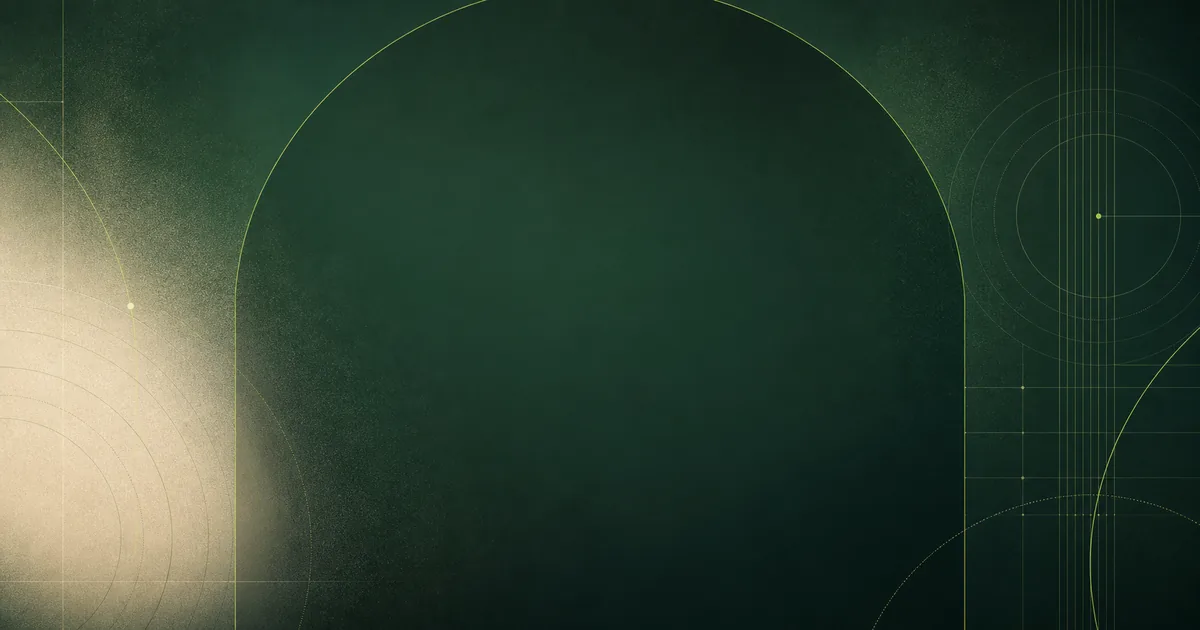
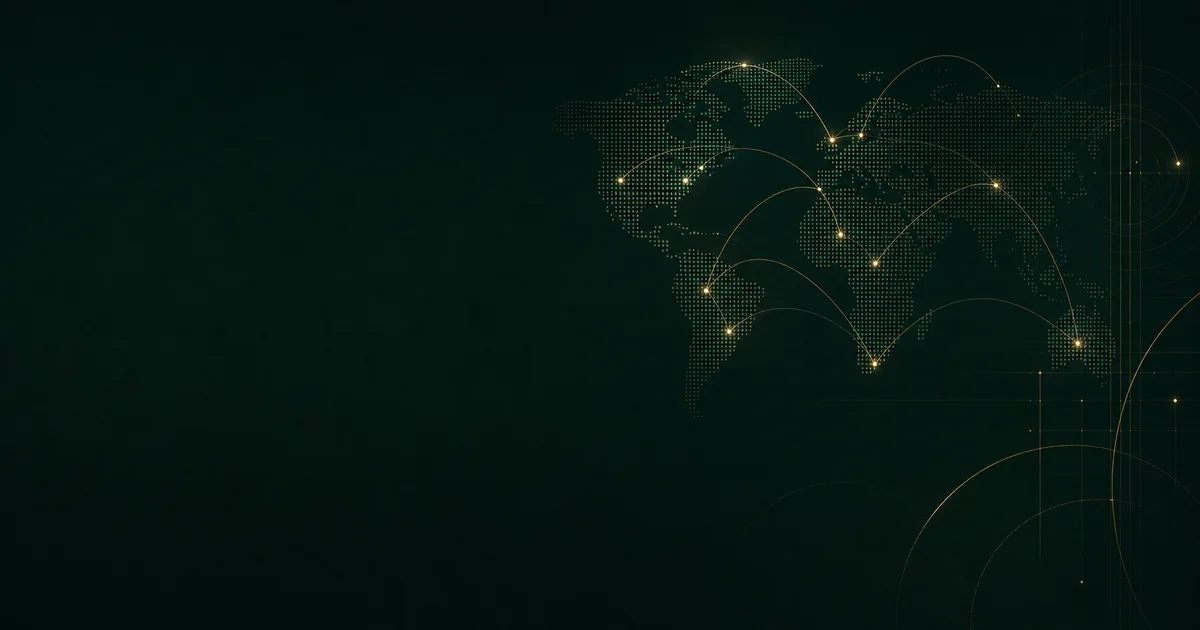
feat: adopt global network OG template

diff --git a/frontend/app/api/og/route.tsx b/frontend/app/api/og/route.tsx
@@ -78,7 +78,12 @@ function dataUrl(bytes: Uint8Array, type: string): string {
 
 async function loadImage(
   url: URL | undefined,
-  dimensions?: { width: number; height: number },
+  options?: {
+    width: number;
+    height: number;
+    fit?: "cover" | "contain";
+    format?: "jpeg" | "png";
+  },
 ): Promise<string | undefined> {
   if (!url) return undefined;
   const controller = new AbortController();
@@ -95,21 +100,27 @@ async function loadImage(
     // abort the entire request on a malformed or incompatible remote image.
     // Re-encoding gives it one known-safe format and also downsizes portraits.
     let pipeline = sharp(bytes).rotate();
-    if (dimensions) {
-      pipeline = pipeline.resize(dimensions.width, dimensions.height, {
-        fit: "cover",
+    if (options) {
+      pipeline = pipeline.resize(options.width, options.height, {
+        fit: options.fit ?? "cover",
         position: "attention",
       });
     }
-    const safeBytes = new Uint8Array(await pipeline.jpeg({ quality: 86, mozjpeg: true }).toBuffer());
+    const outputType = options?.format === "png" ? "image/png" : "image/jpeg";
+    const safeBytes = new Uint8Array(
+      await (options?.format === "png"
+        ? pipeline.png({ compressionLevel: 9 }).toBuffer()
+        : pipeline.jpeg({ quality: 86, mozjpeg: true }).toBuffer()),
+    );
     return safeBytes.byteLength <= MAX_IMAGE_BYTES
-      ? dataUrl(safeBytes, "image/jpeg")
+      ? dataUrl(safeBytes, outputType)
       : undefined;
   } catch { return undefined; } finally { clearTimeout(timeout); }
 }
 
-function Card({ kind, title, subtitle, locale, background, source }: {
-  kind: OgImageKind; title: string; subtitle?: string; locale?: string; background?: string; source?: string;
+function Card({ kind, title, subtitle, locale, background, source, logo }: {
+  kind: OgImageKind; title: string; subtitle?: string; locale?: string;
+  background?: string; source?: string; logo?: string;
 }) {
   const titleSize = title.length > 105 ? 48 : title.length > 70 ? 55 : 64;
   return (
@@ -143,14 +154,21 @@ function Card({ kind, title, subtitle, locale, background, source }: {
         position: "relative", width: source ? 730 : 980, padding: "60px 72px 52px",
         display: "flex", flexDirection: "column",
       }}>
+        {logo ? (
+          // eslint-disable-next-line @next/next/no-img-element
+          <img alt="" src={logo} width={220} height={143} style={{
+            display: "flex", width: 220, height: 143, objectFit: "contain", objectPosition: "left center",
+          }} />
+        ) : (
+          <div style={{
+            display: "flex", alignItems: "center", color: "#FFFFFF", fontSize: 23,
+            fontWeight: 700, letterSpacing: "0.16em",
+          }}>
+            {SITE_NAME.toUpperCase()}
+          </div>
+        )}
         <div style={{
-          display: "flex", alignItems: "center", color: "#FFFFFF", fontSize: 23,
-          fontWeight: 700, letterSpacing: "0.16em",
-        }}>
-          {SITE_NAME.toUpperCase()}
-        </div>
-        <div style={{
-          display: "flex", marginTop: 72, color: "#C7EE62", fontSize: 18, fontWeight: 700, letterSpacing: "0.13em",
+          display: "flex", marginTop: logo ? 18 : 72, color: "#C7EE62", fontSize: 18, fontWeight: 700, letterSpacing: "0.13em",
         }}>{LABELS[kind]}</div>
         <div style={{
           display: "flex", marginTop: 18, fontSize: titleSize, lineHeight: 1.05, fontWeight: 760, letterSpacing: "-0.035em", color: "#FFFFFF",
@@ -186,11 +204,17 @@ export async function GET(request: Request): Promise<Response> {
   const subtitle = bounded(requestUrl.searchParams.get("subtitle"), 100);
   const locale = bounded(requestUrl.searchParams.get("locale"), 35);
   const sourceUrl = approvedSource(bounded(requestUrl.searchParams.get("image"), 2_048));
-  const [background, source] = await Promise.all([
+  const [background, source, logo] = await Promise.all([
     loadImage(new URL("/social/og-background.webp", getSiteUrl())),
     loadImage(sourceUrl, { width: 430, height: 526 }),
+    loadImage(new URL("/logos/global-health-light.png", getSiteUrl()), {
+      width: 440,
+      height: 286,
+      fit: "contain",
+      format: "png",
+    }),
   ]);
-  const props = { kind, title, subtitle, locale, background, source };
+  const props = { kind, title, subtitle, locale, background, source, logo };
   let rendered: Uint8Array;
   try {
     rendered = await renderCard(props);

diff --git a/frontend/lib/seo/og-route.test.ts b/frontend/lib/seo/og-route.test.ts
@@ -1,9 +1,44 @@
+import { readFile } from "node:fs/promises";
 import { afterEach, describe, expect, it, vi } from "vitest";
 import { GET } from "@/app/api/og/route";
 
 describe("OG image route", () => {
   afterEach(() => {
     vi.unstubAllGlobals();
+    vi.unstubAllEnvs();
+  });
+
+  it("renders the selected background and real logo below the social image budget", async () => {
+    vi.stubEnv("NEXT_PUBLIC_SITE_URL", "https://myglobalhealth.online");
+    const realFetch = globalThis.fetch;
+    const [background, logo] = await Promise.all([
+      readFile(new URL("../../public/social/og-background.webp", import.meta.url)),
+      readFile(new URL("../../public/logos/global-health-light.png", import.meta.url)),
+    ]);
+    vi.stubGlobal(
+      "fetch",
+      vi.fn(async (input: string | URL | Request, init?: RequestInit) => {
+        const url = new URL(input instanceof Request ? input.url : input.toString());
+        if (url.pathname === "/social/og-background.webp") {
+          return new Response(background, { headers: { "content-type": "image/webp" } });
+        }
+        if (url.pathname === "/logos/global-health-light.png") {
+          return new Response(logo, { headers: { "content-type": "image/png" } });
+        }
+        if (url.protocol === "https:") return new Response(null, { status: 404 });
+        return realFetch(input, init);
+      }),
+    );
+
+    const response = await GET(new Request(
+      "https://myglobalhealth.online/api/og?kind=service&title=Online%20GP%20Consultation&subtitle=Ireland&locale=en_IE",
+    ));
+    const bytes = await response.arrayBuffer();
+
+    expect(response.status).toBe(200);
+    expect(response.headers.get("content-type")).toContain("image/jpeg");
+    expect(bytes.byteLength).toBeGreaterThan(10_000);
+    expect(bytes.byteLength).toBeLessThan(300_000);
   });
 
   it("renders a branded image when a doctor portrait cannot be decoded", async () => {

diff --git a/frontend/lib/seo/og-image.ts b/frontend/lib/seo/og-image.ts
@@ -2,7 +2,7 @@ import { getSiteUrl } from "@/lib/seo/site-url";
 
 export const OG_IMAGE_WIDTH = 1200;
 export const OG_IMAGE_HEIGHT = 630;
-export const OG_IMAGE_VERSION = "2026-07-19.4";
+export const OG_IMAGE_VERSION = "2026-07-19.5";
 
 export type OgImageKind =
   | "page"
